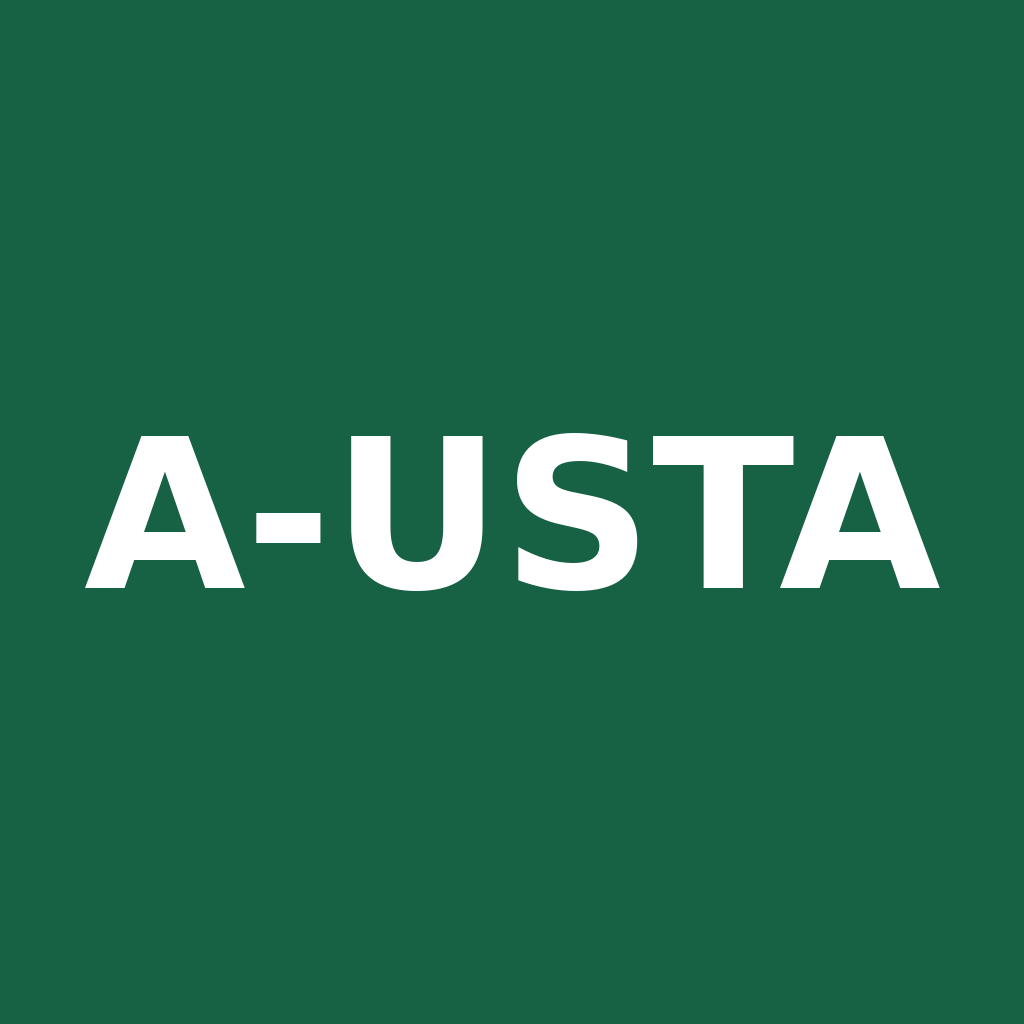
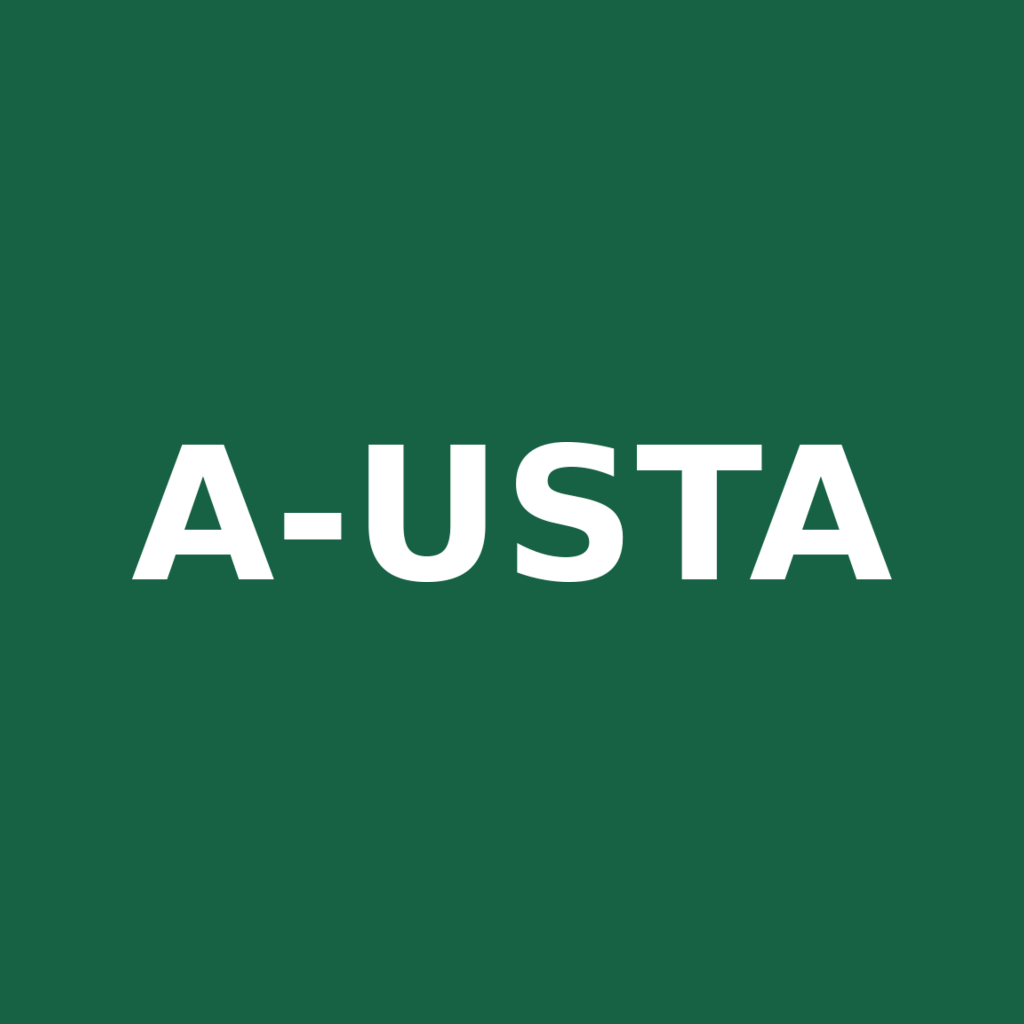
fix(mobile): harden cold start and responsive branding

diff --git a/mobile/src/components/MarketplaceScreens.tsx b/mobile/src/components/MarketplaceScreens.tsx
@@ -5,14 +5,13 @@ import { Feather } from '@expo/vector-icons';
 import * as ImagePicker from 'expo-image-picker';
 import AsyncStorage from '@react-native-async-storage/async-storage';
 import vehicleCatalog from '../data/vehicle-catalog.json';
-import { VideoView, useVideoPlayer } from 'expo-video';
 import { getSupabaseClient } from '../lib/supabase';
 import { attachMedia, CATEGORIES, CATEGORY_FILTERS, categoryConfig, categoryFilterError, categoryFilterValues, getFavorites, getListing, listCategory, listHome, promotionRank, sortListings, toggleFavorite, type Category, type CategoryKey, type Listing } from '../lib/marketplace';
 
 const newUuid=()=> 'xxxxxxxx-xxxx-4xxx-yxxx-xxxxxxxxxxxx'.replace(/[xy]/g,c=>{const r=Math.random()*16|0;return(c==='x'?r:(r&3|8)).toString(16);});
 const vehicleModels=vehicleCatalog.models as Record<string,string[]>;
 const GREEN='#176244', INK='#202A35', MUTED='#7A8491', LINE='#E8EBEF', BG='#F4F6F8';
-const styles=StyleSheet.create({screen:{flex:1,backgroundColor:BG},content:{paddingBottom:26},header:{backgroundColor:'#fff',padding:18,paddingBottom:14},brand:{fontSize:21,fontWeight:'900',letterSpacing:1,color:GREEN},search:{margin:14,marginBottom:0,height:48,borderRadius:12,backgroundColor:'#fff',borderWidth:1,borderColor:LINE,paddingHorizontal:13,flexDirection:'row',alignItems:'center',gap:9},input:{flex:1,color:INK,fontSize:14,paddingVertical:0},banner:{width:'100%',aspectRatio:1920/210,marginTop:14},section:{marginTop:20,marginBottom:10,paddingHorizontal:16,flexDirection:'row',alignItems:'center',justifyContent:'space-between'},heading:{fontSize:17,fontWeight:'800',color:INK},muted:{fontSize:12,color:MUTED},link:{color:GREEN,fontSize:12,fontWeight:'700'},strip:{gap:9,paddingHorizontal:14},cat:{width:82,alignItems:'center',gap:5},catIcon:{width:56,height:54,borderRadius:15,backgroundColor:'#fff',borderWidth:1,borderColor:LINE,alignItems:'center',justifyContent:'center'},catText:{fontSize:10,color:INK,textAlign:'center'},grid:{flexDirection:'row',flexWrap:'wrap',paddingHorizontal:10,gap:8},card:{width:'48.8%',backgroundColor:'#fff',borderRadius:13,overflow:'hidden',borderWidth:1,borderColor:LINE,paddingBottom:10},media:{height:138,backgroundColor:'#E9EDF0',alignItems:'center',justifyContent:'center'},mediaImage:{width:'100%',height:'100%'},badges:{position:'absolute',left:7,top:7,flexDirection:'row',gap:4},badge:{paddingHorizontal:7,paddingVertical:3,borderRadius:8,backgroundColor:'#EAF2ED',color:GREEN,fontSize:9,fontWeight:'800'},heart:{position:'absolute',right:7,top:7,width:30,height:30,borderRadius:16,backgroundColor:'rgba(255,255,255,.92)',alignItems:'center',justifyContent:'center'},price:{marginHorizontal:9,marginTop:8,fontSize:14,fontWeight:'900',color:INK},title:{marginHorizontal:9,marginTop:4,fontSize:12,fontWeight:'700',color:INK},meta:{marginHorizontal:9,marginTop:4,fontSize:10,color:MUTED},state:{margin:16,padding:20,borderRadius:15,backgroundColor:'#fff',alignItems:'center',borderColor:LINE,borderWidth:1},stateTitle:{marginTop:8,fontSize:14,fontWeight:'800',color:INK,textAlign:'center'},stateBody:{marginTop:5,fontSize:12,color:MUTED,textAlign:'center',lineHeight:18},button:{minHeight:44,paddingHorizontal:14,borderRadius:11,backgroundColor:GREEN,alignItems:'center',justifyContent:'center',flexDirection:'row',gap:8},buttonText:{color:'#fff',fontSize:13,fontWeight:'800'},outline:{minHeight:42,borderRadius:11,borderWidth:1,borderColor:LINE,backgroundColor:'#fff',paddingHorizontal:12,alignItems:'center',justifyContent:'center',flexDirection:'row',gap:7},outlineText:{color:INK,fontSize:12,fontWeight:'700'},filters:{margin:14,padding:13,backgroundColor:'#fff',borderRadius:13,borderColor:LINE,borderWidth:1,gap:8},field:{minHeight:43,paddingHorizontal:11,borderRadius:9,backgroundColor:'#F8F9FA',borderWidth:1,borderColor:LINE,color:INK,fontSize:13},row:{flexDirection:'row',gap:8},half:{flex:1},pills:{flexDirection:'row',gap:8,paddingHorizontal:14,paddingBottom:4},pill:{paddingVertical:8,paddingHorizontal:13,borderRadius:20,borderWidth:1,borderColor:LINE,backgroundColor:'#fff'},pillOn:{backgroundColor:GREEN,borderColor:GREEN},pillText:{fontSize:12,color:INK,fontWeight:'700'},pillTextOn:{color:'#fff'},detailHero:{height:320,backgroundColor:'#E9EDF0'},detailImage:{height:320,width:'100%'},detailPad:{padding:16,backgroundColor:'#fff',marginTop:7},detailPrice:{fontSize:25,fontWeight:'900',color:INK},detailTitle:{marginTop:5,fontSize:19,fontWeight:'800',color:INK},spec:{flexDirection:'row',justifyContent:'space-between',paddingVertical:11,borderBottomWidth:1,borderBottomColor:LINE},specKey:{fontSize:13,color:MUTED},specVal:{fontSize:13,color:INK,fontWeight:'700',maxWidth:'58%',textAlign:'right'},bottomBar:{position:'absolute',left:0,right:0,bottom:0,backgroundColor:'#fff',padding:12,borderTopWidth:1,borderTopColor:LINE,flexDirection:'row',gap:9},fab:{flex:1},form:{padding:16,gap:10},formLabel:{fontSize:13,fontWeight:'700',color:INK},mediaPick:{padding:14,backgroundColor:'#fff',borderWidth:1,borderStyle:'dashed',borderColor:'#AEB8C2',borderRadius:12,alignItems:'center',gap:7},preview:{width:84,height:80,borderRadius:9,backgroundColor:'#E9EDF0'},error:{color:'#B42318',fontSize:12},flatButton:{padding:10,alignItems:'center'} });
+const styles=StyleSheet.create({screen:{flex:1,backgroundColor:BG},content:{paddingBottom:26},header:{backgroundColor:'#fff',padding:18,paddingBottom:14},brand:{fontSize:21,fontWeight:'900',letterSpacing:1,color:GREEN,flexShrink:0},search:{margin:14,marginBottom:0,minHeight:48,paddingVertical:7,borderRadius:12,backgroundColor:'#fff',borderWidth:1,borderColor:LINE,paddingHorizontal:13,flexDirection:'row',alignItems:'center',gap:9},input:{flex:1,minWidth:0,flexShrink:1,color:INK,fontSize:14,paddingVertical:0},banner:{width:'100%',aspectRatio:1920/210,marginTop:14},section:{marginTop:20,marginBottom:10,paddingHorizontal:16,flexDirection:'row',alignItems:'center',justifyContent:'space-between',gap:8,flexWrap:'wrap'},heading:{fontSize:17,fontWeight:'800',color:INK,flexShrink:1},muted:{fontSize:12,color:MUTED,lineHeight:18,flexShrink:1},link:{color:GREEN,fontSize:12,fontWeight:'700'},strip:{gap:9,paddingHorizontal:14},cat:{width:82,alignItems:'center',gap:5,paddingVertical:2},catIcon:{width:56,height:54,borderRadius:15,backgroundColor:'#fff',borderWidth:1,borderColor:LINE,alignItems:'center',justifyContent:'center'},catText:{fontSize:10,color:INK,textAlign:'center',lineHeight:14,flexShrink:1},grid:{flexDirection:'row',flexWrap:'wrap',paddingHorizontal:10,gap:8},card:{flexBasis:'48%',flexGrow:1,flexShrink:1,minWidth:0,backgroundColor:'#fff',borderRadius:13,overflow:'hidden',borderWidth:1,borderColor:LINE,paddingBottom:10},media:{height:138,backgroundColor:'#E9EDF0',alignItems:'center',justifyContent:'center'},mediaImage:{width:'100%',height:'100%'},badges:{position:'absolute',left:7,top:7,flexDirection:'row',gap:4},badge:{paddingHorizontal:7,paddingVertical:3,borderRadius:8,backgroundColor:'#EAF2ED',color:GREEN,fontSize:9,fontWeight:'800'},heart:{position:'absolute',right:7,top:7,width:30,height:30,borderRadius:16,backgroundColor:'rgba(255,255,255,.92)',alignItems:'center',justifyContent:'center'},price:{marginHorizontal:9,marginTop:8,fontSize:14,fontWeight:'900',color:INK,flexShrink:1},title:{marginHorizontal:9,marginTop:4,fontSize:12,fontWeight:'700',color:INK,flexShrink:1},meta:{marginHorizontal:9,marginTop:4,fontSize:10,color:MUTED,lineHeight:15,flexShrink:1},state:{margin:16,padding:20,borderRadius:15,backgroundColor:'#fff',alignItems:'center',borderColor:LINE,borderWidth:1},stateTitle:{marginTop:8,fontSize:14,fontWeight:'800',color:INK,textAlign:'center'},stateBody:{marginTop:5,fontSize:12,color:MUTED,textAlign:'center',lineHeight:18},button:{minHeight:44,paddingHorizontal:14,borderRadius:11,backgroundColor:GREEN,alignItems:'center',justifyContent:'center',flexDirection:'row',flexWrap:'wrap',gap:8},buttonText:{color:'#fff',fontSize:13,fontWeight:'800',textAlign:'center',flexShrink:1},outline:{minHeight:42,borderRadius:11,borderWidth:1,borderColor:LINE,backgroundColor:'#fff',paddingHorizontal:12,alignItems:'center',justifyContent:'center',flexDirection:'row',flexWrap:'wrap',gap:7},outlineText:{color:INK,fontSize:12,fontWeight:'700'},filters:{margin:14,padding:13,backgroundColor:'#fff',borderRadius:13,borderColor:LINE,borderWidth:1,gap:8},field:{minHeight:43,paddingHorizontal:11,borderRadius:9,backgroundColor:'#F8F9FA',borderWidth:1,borderColor:LINE,color:INK,fontSize:13},row:{flexDirection:'row',flexWrap:'wrap',gap:8},half:{flex:1,minWidth:140},pills:{flexDirection:'row',gap:8,paddingHorizontal:14,paddingBottom:4},pill:{paddingVertical:8,paddingHorizontal:13,borderRadius:20,borderWidth:1,borderColor:LINE,backgroundColor:'#fff'},pillOn:{backgroundColor:GREEN,borderColor:GREEN},pillText:{fontSize:12,color:INK,fontWeight:'700'},pillTextOn:{color:'#fff'},detailHero:{height:320,backgroundColor:'#E9EDF0'},detailImage:{height:320,width:'100%'},detailPad:{padding:16,backgroundColor:'#fff',marginTop:7},detailPrice:{fontSize:25,fontWeight:'900',color:INK},detailTitle:{marginTop:5,fontSize:19,fontWeight:'800',color:INK},spec:{flexDirection:'row',justifyContent:'space-between',gap:12,paddingVertical:11,borderBottomWidth:1,borderBottomColor:LINE},specKey:{fontSize:13,color:MUTED},specVal:{fontSize:13,color:INK,fontWeight:'700',flexShrink:1,textAlign:'right'},bottomBar:{position:'absolute',left:0,right:0,bottom:0,backgroundColor:'#fff',padding:12,borderTopWidth:1,borderTopColor:LINE,flexDirection:'row',flexWrap:'wrap',gap:9},fab:{flex:1,minWidth:120},form:{padding:16,gap:10},formLabel:{fontSize:13,fontWeight:'700',color:INK},mediaPick:{padding:14,backgroundColor:'#fff',borderWidth:1,borderStyle:'dashed',borderColor:'#AEB8C2',borderRadius:12,alignItems:'center',justifyContent:'center',flexDirection:'row',flexWrap:'wrap',gap:7},preview:{width:84,height:80,borderRadius:9,backgroundColor:'#E9EDF0'},error:{color:'#B42318',fontSize:12},flatButton:{padding:10,alignItems:'center'} });
 
 const money=(n:any)=>n==null?'Qiymət soruşun':`${Number(n).toLocaleString('az-AZ')} AZN`;
 const priceOf=(item:Listing)=>item.daily_price ?? item.price;
@@ -22,7 +21,11 @@ const errorText=(e:unknown)=>e instanceof Error?e.message:'Əməliyyat tamamlanm
 
 function State({title,body,action,onAction,loading=false}:{title:string;body:string;action?:string;onAction?:()=>void;loading?:boolean}){return <View style={styles.state}>{loading?<ActivityIndicator color={GREEN}/>:<Feather name="info" size={24} color={GREEN}/>}<Text style={styles.stateTitle}>{title}</Text><Text style={styles.stateBody}>{body}</Text>{action&&<Pressable onPress={onAction} style={[styles.button,{marginTop:12}]}><Text style={styles.buttonText}>{action}</Text></Pressable>}</View>}
 function Section({title,action,onAction}:{title:string;action?:string;onAction?:()=>void}){return <View style={styles.section}><Text style={styles.heading}>{title}</Text>{action&&<Pressable onPress={onAction}><Text style={styles.link}>{action}</Text></Pressable>}</View>}
-function PromoVideo({url}:{url:string}){const player=useVideoPlayer(url,p=>{p.muted=true;p.loop=true;p.play();});return <VideoView player={player} style={styles.mediaImage} contentFit="cover" nativeControls />}
+function PromoVideo({url}:{url:string}){
+ // Video support is initialized only when a video listing is actually rendered.
+ // eslint-disable-next-line @typescript-eslint/no-require-imports
+ const {VideoView,useVideoPlayer}=require('expo-video') as typeof import('expo-video');const player=useVideoPlayer(url,p=>{p.muted=true;p.loop=true;p.play();});return <VideoView player={player} style={styles.mediaImage} contentFit="cover" nativeControls />
+}
 function CatalogPicker({title,value,options,onChange}:{title:string;value:string;options:string[];onChange:(value:string)=>void}){const [visible,setVisible]=useState(false),[search,setSearch]=useState('');const shown=options.filter(item=>item.toLocaleLowerCase('az-AZ').includes(search.trim().toLocaleLowerCase('az-AZ'))).slice(0,120);return <><Pressable accessibilityRole="button" onPress={()=>{setSearch('');setVisible(true);}} style={[styles.field,{justifyContent:'center',marginTop:5}]}><Text style={{color:value?INK:'#98A1AB'}}>{value||title}</Text></Pressable><Modal visible={visible} animationType="slide" onRequestClose={()=>setVisible(false)}><View style={{flex:1,backgroundColor:BG,paddingTop:40}}><View style={styles.header}><Text style={styles.heading}>{title}</Text><Pressable onPress={()=>setVisible(false)}><Text style={styles.link}>Bağla</Text></Pressable></View><View style={styles.search}><Feather name="search" size={17} color={MUTED}/><TextInput value={search} onChangeText={setSearch} placeholder={`${title} axtar`} style={styles.input}/></View><ScrollView keyboardShouldPersistTaps="handled" contentContainerStyle={{padding:16}}>{shown.map(option=><Pressable key={option} onPress={()=>{onChange(option);setVisible(false);}} style={[styles.spec,{paddingVertical:14}]}><Text style={styles.specVal}>{option}</Text><Feather name="chevron-right" size={17} color={MUTED}/></Pressable>)}{shown.length===0&&<Text style={styles.stateBody}>Uyğun seçim tapılmadı.</Text>}</ScrollView></View></Modal></>}
 
 function ListingCard({item,onOpen,onFavorite}:{item:Listing;onOpen:()=>void;onFavorite:(item:Listing)=>void}){
@@ -33,9 +36,9 @@ function ListingCard({item,onOpen,onFavorite}:{item:Listing;onOpen:()=>void;onFa
     <View style={styles.badges}>{promotionRank(item)>=3&&<Text style={styles.badge}>PREMIUM</Text>}{promotionRank(item)===2&&<Text style={styles.badge}>VIP</Text>}{item._category==='dealer'&&item.details?.order_type==='order'&&<Text style={styles.badge}>SİFARİŞLƏ</Text>}</View>
     <Pressable accessibilityRole="button" accessibilityLabel="Seçilmişlərə əlavə et" onPress={()=>onFavorite(item)} style={styles.heart}><Feather name="heart" size={16} color={GREEN}/></Pressable>
    </View>
-   <Text numberOfLines={1} style={styles.price}>{money(priceOf(item))}</Text><Text numberOfLines={1} style={styles.title}>{titleOf(item)}</Text>
-   <Text numberOfLines={1} style={styles.meta}>{[item.year,item.engine_volume?`${item.engine_volume} L`:null,item.mileage?`${Number(item.mileage).toLocaleString('az-AZ')} km`:null].filter(Boolean).join(' · ')||item.specialty||item.details?.service_category||item.condition||''}</Text>
-   <Text numberOfLines={1} style={styles.meta}>{locationOf(item)} · {(item.published_at||item.created_at?new Date(item.published_at||item.created_at).toLocaleDateString('az-AZ'):'')}</Text>
+   <Text style={styles.price}>{money(priceOf(item))}</Text><Text style={styles.title}>{titleOf(item)}</Text>
+   <Text style={styles.meta}>{[item.year,item.engine_volume?`${item.engine_volume} L`:null,item.mileage?`${Number(item.mileage).toLocaleString('az-AZ')} km`:null].filter(Boolean).join(' · ')||item.specialty||item.details?.service_category||item.condition||''}</Text>
+   <Text style={styles.meta}>{locationOf(item)} · {(item.published_at||item.created_at?new Date(item.published_at||item.created_at).toLocaleDateString('az-AZ'):'')}</Text>
  </Pressable>
 }
 
@@ -51,7 +54,7 @@ export function MarketplaceHomeScreen(){
   <View style={styles.header}><Text style={styles.brand}>A-USTA</Text><Text style={styles.muted}>Avtomobil elanları və xidmətlər</Text></View>
   <Image source={require('../../assets/austa-top-static-banner.webp')} style={styles.banner} resizeMode="stretch" accessibilityLabel="A-USTA reklamı"/>
   <Section title="Kateqoriyalar" action="Elan yerləşdir" onAction={()=>router.push('/(drawer)/(tabs)/create')}/>
-  <ScrollView horizontal showsHorizontalScrollIndicator={false} contentContainerStyle={styles.strip}>{CATEGORIES.map(c=><Pressable key={c.key} accessibilityRole="button" accessibilityState={{selected:homeCategory===c.key}} onPress={()=>{setHomeCategory(c.key);setSearch('');setDraftFilters({});setAppliedFilters({});setLoading(true);}} style={[styles.cat,homeCategory===c.key&&{borderBottomWidth:2,borderBottomColor:GREEN}]}><View style={[styles.catIcon,homeCategory===c.key&&{backgroundColor:'#EAF2ED',borderColor:GREEN}]}><Feather name={c.icon as any} color={GREEN} size={20}/></View><Text style={[styles.catText,homeCategory===c.key&&{color:GREEN,fontWeight:'800'}]} numberOfLines={2}>{c.title}</Text></Pressable>)}</ScrollView>
+  <ScrollView horizontal showsHorizontalScrollIndicator={false} contentContainerStyle={styles.strip}>{CATEGORIES.map(c=><Pressable key={c.key} accessibilityRole="button" accessibilityState={{selected:homeCategory===c.key}} onPress={()=>{setHomeCategory(c.key);setSearch('');setDraftFilters({});setAppliedFilters({});setLoading(true);}} style={[styles.cat,homeCategory===c.key&&{borderBottomWidth:2,borderBottomColor:GREEN}]}><View style={[styles.catIcon,homeCategory===c.key&&{backgroundColor:'#EAF2ED',borderColor:GREEN}]}><Feather name={c.icon as any} color={GREEN} size={20}/></View><Text style={[styles.catText,homeCategory===c.key&&{color:GREEN,fontWeight:'800'}]}>{c.title}</Text></Pressable>)}</ScrollView>
   <View style={styles.filters}>
    <View style={[styles.search,{margin:0}]}><Feather name="search" color={MUTED} size={17}/><TextInput value={search} onChangeText={setSearch} placeholder={`${activeCategory.title} üzrə axtar`} placeholderTextColor="#98A1AB" style={styles.input} returnKeyType="search"/></View>
    <Text style={styles.formLabel}>{activeCategory.title} filtrləri</Text>
@@ -157,7 +160,7 @@ export function MarketplaceCreateScreen(){
  return <ScrollView style={styles.screen} contentContainerStyle={styles.form}>{!draftId&&drafts.length>0&&<View style={{gap:8}}><Text style={styles.heading}>Qaralamalarım</Text>{drafts.map(row=><Pressable key={`${row._draftSource}:${row.id}`} onPress={()=>editDraft(row)} style={styles.detailPad}><Text style={styles.formLabel}>{row.brand||row.dealer_name||row.title||row.name||row.category||'Yeni elan'} · {row.status==='draft'?'Qaralama':'Gözləyir'}</Text><Text style={styles.meta}>{row.id.slice(0,8)}</Text></Pressable>)}</View>}<Text style={styles.brand}>{draftId?'Elanı redaktə et':'Yeni elan'}</Text><Text style={styles.muted}>Kateqoriya seçin</Text><ScrollView horizontal showsHorizontalScrollIndicator={false} contentContainerStyle={styles.pills}>{CATEGORIES.map(c=><Pressable key={c.key} onPress={()=>{setKey(c.key);setDraftId('');setDraftStatus('');setValues({});setAssets([]);setSellerProfileId('');setFormStep(0);setCleanupPending(false);}} style={[styles.pill,key===c.key&&styles.pillOn]}><Text style={[styles.pillText,key===c.key&&styles.pillTextOn]}>{c.title}</Text></Pressable>)}</ScrollView>
  {formStep===0&&<View style={styles.detailPad}><Text style={styles.formLabel}>Satıcı profili</Text><Pressable onPress={()=>setSellerProfileId('')} style={[styles.pill,!sellerProfileId&&styles.pillOn,{alignSelf:'flex-start',marginTop:8}]}><Text style={[styles.pillText,!sellerProfileId&&styles.pillTextOn]}>Şəxsi elan</Text></Pressable>{eligibleSellerProfiles.map(profile=><Pressable key={profile.id} onPress={()=>setSellerProfileId(profile.id)} style={[styles.pill,sellerProfileId===profile.id&&styles.pillOn,{alignSelf:'flex-start',marginTop:8}]}><Text style={[styles.pillText,sellerProfileId===profile.id&&styles.pillTextOn]}>{profile.display_name} · Təsdiqlənmiş</Text></Pressable>)}{eligibleSellerProfiles.length===0&&<Text style={styles.muted}>Bu kateqoriya üçün təsdiqlənmiş profil tapılmadı. Şəxsi elan seçimi mövcuddur; server yekun uyğunluğu özü yoxlayır.</Text>}</View>}
  {formStep===0&&fields.map(([field,label])=><View key={field}><Text style={styles.formLabel}>{label}</Text>{category.source==='vehicle'&&field==='brand'?<CatalogPicker title="Marka seçin" value={values.brand||''} options={vehicleCatalog.brands} onChange={v=>{set('brand',v);set('model','');}}/>:category.source==='vehicle'&&field==='model'&&values.brand?<CatalogPicker title="Model seçin" value={values.model||''} options={vehicleModels[values.brand]||[]} onChange={v=>set('model',v)}/>:<TextInput value={values[field]||''} onChangeText={v=>set(field,v)} placeholder={label} placeholderTextColor="#98A1AB" multiline={['description','address'].includes(field)} keyboardType={field==='price'||field==='year'||field==='mileage'||field==='engine_volume'?'decimal-pad':'default'} style={[styles.field,{marginTop:5,minHeight:['description','address'].includes(field)?76:43,textAlignVertical:'top',paddingTop:12}]}/>}</View>)}
-  {formStep===1&&<View style={{gap:10}}><Text style={styles.heading}>Şəkillər və video</Text><Text style={styles.muted}>Bir neçə real şəkil seçin. Fayllar yükləmə gedişi və təkrar cəhdlə qorunur; dövlət nömrəsi kateqoriyasında video qəbul edilmir.</Text><Pressable onPress={()=>void pick()} style={styles.mediaPick}><Feather name="image" size={22} color={GREEN}/><Text style={styles.formLabel}>{assets.length?`${assets.length} media seçilib`:'Mobil qalereyadan media seçin'}</Text></Pressable>{assets.map((asset,n)=><View key={asset.assetId||asset.uri} style={[styles.detailPad,{flexDirection:'row',alignItems:'center',gap:10}]}>{asset.type==='video'?<PromoVideo url={asset.uri}/>:<Image source={{uri:asset.uri}} style={{width:64,height:56,borderRadius:8}}/>}<Text numberOfLines={1} style={[styles.meta,{flex:1}]}>{asset.fileName||`Media ${n+1}`}</Text><Pressable onPress={()=>setAssets(list=>list.filter((_,i)=>i!==n))}><Text style={styles.link}>Sil</Text></Pressable></View>)}</View>}
+  {formStep===1&&<View style={{gap:10}}><Text style={styles.heading}>Şəkillər və video</Text><Text style={styles.muted}>Bir neçə real şəkil seçin. Fayllar yükləmə gedişi və təkrar cəhdlə qorunur; dövlət nömrəsi kateqoriyasında video qəbul edilmir.</Text><Pressable onPress={()=>void pick()} style={styles.mediaPick}><Feather name="image" size={22} color={GREEN}/><Text style={styles.formLabel}>{assets.length?`${assets.length} media seçilib`:'Mobil qalereyadan media seçin'}</Text></Pressable>{assets.map((asset,n)=><View key={asset.assetId||asset.uri} style={[styles.detailPad,{flexDirection:'row',alignItems:'center',gap:10,flexWrap:'wrap'}]}>{asset.type==='video'?<PromoVideo url={asset.uri}/>:<Image source={{uri:asset.uri}} style={{width:64,height:56,borderRadius:8}}/>}<Text style={[styles.meta,{flex:1,minWidth:100}]}>{asset.fileName||`Media ${n+1}`}</Text><Pressable onPress={()=>setAssets(list=>list.filter((_,i)=>i!==n))}><Text style={styles.link}>Sil</Text></Pressable></View>)}</View>}
   {formStep===2&&<View style={{gap:10}}><Text style={styles.heading}>Elan önizləməsi</Text><View style={styles.detailPad}>{assets[0]&&<>{assets[0].type==='video'?<PromoVideo url={assets[0].uri}/>:<Image source={{uri:assets[0].uri}} style={{width:'100%',height:190,borderRadius:12}}/>}</>}<Text style={styles.badge}>{category.title}</Text><Text style={styles.detailPrice}>{money(values.price||values.daily_price)}</Text><Text style={styles.detailTitle}>{values.title||[values.brand,values.model,values.year].filter(Boolean).join(' ')||category.title}</Text><Text style={styles.meta}>{[values.year,values.engine_volume?`${values.engine_volume} L`:null,values.mileage?`${values.mileage} km`:null,values.region,values.district].filter(Boolean).join(' · ')}</Text><Text style={styles.meta}>{values.description||values.about||'Təsvir əlavə edilməyib.'}</Text></View><Text style={styles.muted}>Dərc etməzdən əvvəl məlumatları yoxlayın. Server tərəfi RLS, sahiblik və kateqoriya qaydaları qüvvədə qalır.</Text></View>}
   {!!error&&<Text accessibilityRole="alert" style={styles.error}>{error}</Text>}{!!progress&&<Text style={styles.muted}>{progress}</Text>}
   {cleanupPending&&<Text accessibilityRole="alert" style={styles.error}>Media təmizlənməsi təsdiqlənmədi. Təkrar yükləməni dayandırdıq; əvvəlcə bu qaralamanı dəstək vasitəsilə yoxlatdırın.</Text>}<View style={styles.row}>{formStep>0&&<Pressable disabled={saving} onPress={()=>setFormStep(v=>Math.max(0,v-1))} style={[styles.outline,{flex:1}]}><Text style={styles.outlineText}>Geri</Text></Pressable>}<Pressable disabled={saving||cleanupPending} onPress={()=>void save(false)} style={[styles.outline,{flex:1}]}><Text style={styles.outlineText}>{saving?'Saxlanılır…':draftStatus==='active'?'Dəyişiklikləri saxla':'Qaralama saxla'}</Text></Pressable></View>{formStep<2?<Pressable disabled={saving||cleanupPending} onPress={advanceStep} style={styles.button}><Text style={styles.buttonText}>Davam et · {['Məlumatlar','Media','Önizləmə'][formStep+1]}</Text></Pressable>:<Pressable disabled={saving||cleanupPending} onPress={()=>void save(true)} style={styles.button}><Text style={styles.buttonText}>{saving?'Gözləyin…':draftStatus==='active'?'Elanı yenilə':'Dərc et'}</Text></Pressable>}

diff --git a/mobile/App.tsx b/mobile/App.tsx
@@ -56,7 +56,7 @@ export function ServiceDrawer({ navigation }: { navigation: { closeDrawer: () =>
       <Feather name={open ? 'chevron-up' : 'chevron-down'} size={19} color={MUTED} />
     </Pressable>
     {open && <View style={styles.serviceList}>{serviceItems.map(item => <Pressable key={item.key} accessibilityRole="button" onPress={() => go(item.key, item.title)} style={({ pressed }) => [styles.serviceLink, pressed && styles.pressed]}>
-      <View style={styles.serviceIcon}><Feather name={item.icon} size={18} color={GREEN} /></View><View style={styles.serviceCopy}><Text style={styles.serviceTitle}>{item.title}</Text><Text numberOfLines={1} style={styles.serviceNote}>{item.note}</Text></View><Feather name="chevron-right" size={17} color="#A1A8B1" />
+      <View style={styles.serviceIcon}><Feather name={item.icon} size={18} color={GREEN} /></View><View style={styles.serviceCopy}><Text style={styles.serviceTitle}>{item.title}</Text><Text style={styles.serviceNote}>{item.note}</Text></View><Feather name="chevron-right" size={17} color="#A1A8B1" />
     </Pressable>)}</View>}
     <View style={styles.drawerDivider} />
     <Pressable accessibilityRole="button" onPress={() => { navigation.closeDrawer(); setOpen(false); }} style={styles.drawerNav}><Feather name="home" size={19} color={INK} /><Text style={styles.drawerNavText}>Əsas səhifə</Text></Pressable>
@@ -92,7 +92,7 @@ export function HomeScreen() {
     <View style={styles.searchBox}><Feather name="search" size={19} color={MUTED} /><TextInput accessibilityLabel="Axtarış" placeholder="Marka, model və ya elan axtar" placeholderTextColor="#98A1AB" value={query} onChangeText={setQuery} style={styles.searchInput} returnKeyType="search" /><Pressable accessibilityLabel="Filtrlər" onPress={() => Alert.alert('Filtrlər', 'Axtarış filtrləri M3 mərhələsində qoşulacaq.')}><Feather name="sliders" size={20} color={GREEN} /></Pressable></View>
     <View style={styles.brandBanner}><Image source={require('./assets/austa-top-static-banner.webp')} style={styles.bannerImage} resizeMode="contain" accessibilityLabel="A-USTA reklamı" /></View>
     <View style={styles.sectionHeading}><Text style={styles.sectionTitle}>Kateqoriyalar</Text><Text style={styles.sectionHint}>Hamısına bax</Text></View>
-    <ScrollView horizontal showsHorizontalScrollIndicator={false} contentContainerStyle={styles.categoryStrip}>{categories.slice(0, 6).map(([key, title, icon]) => <Pressable key={key} onPress={() => openCategory(key, title)} style={styles.categoryTile}><View style={styles.categoryIcon}><Feather name={icon as keyof typeof Feather.glyphMap} size={20} color={GREEN} /></View><Text numberOfLines={2} style={styles.categoryLabel}>{title}</Text></Pressable>)}</ScrollView>
+    <ScrollView horizontal showsHorizontalScrollIndicator={false} contentContainerStyle={styles.categoryStrip}>{categories.slice(0, 6).map(([key, title, icon]) => <Pressable key={key} onPress={() => openCategory(key, title)} style={styles.categoryTile}><View style={styles.categoryIcon}><Feather name={icon as keyof typeof Feather.glyphMap} size={20} color={GREEN} /></View><Text style={styles.categoryLabel}>{title}</Text></Pressable>)}</ScrollView>
     <View style={styles.sectionHeading}><Text style={styles.sectionTitle}>Son avtomobil elanları</Text><Pressable onPress={() => openCategory('cars', 'Avtomobillər')}><Text style={styles.moreText}>Hamısına bax</Text></Pressable></View>
     {loading ? <StateCard icon="loader" title="Elanlar yüklənir" body="A-USTA elanları yoxlanılır…" /> : error ? <StateCard icon="wifi-off" title="Elanlar hazırda əlçatan deyil" body={error} action="Yenidən yoxla" onAction={() => { setLoading(true); void load(); }} /> : listings.length === 0 ? <StateCard icon="search" title="Aktiv elan tapılmadı" body="Yeni elanlar dərc edildikdə burada görünəcək." /> : <View style={styles.listingGrid}>{listings.filter(item => !query || `${item.brand} ${item.model}`.toLowerCase().includes(query.toLowerCase())).slice(0, 8).map(item => <ListingCard key={item.id} item={item} onPress={() => router.push({ pathname: '/listing/[id]', params: { id: item.id } })} />)}</View>}
     <View style={styles.sectionHeading}><Text style={styles.sectionTitle}>Bütün elan kateqoriyaları</Text></View>
@@ -103,10 +103,10 @@ export function HomeScreen() {
 function ListingCard({ item, onPress }: { item: Listing; onPress: () => void }) {
   return <Pressable accessibilityRole="button" onPress={onPress} style={({ pressed }) => [styles.listingCard, pressed && styles.pressed]}>
     <View style={styles.listingImage}><Feather name="truck" size={30} color="#A6AFB9" /><Text style={styles.noMedia}>Şəkil mövcud deyil</Text></View>
-    <Text numberOfLines={1} style={styles.listingPrice}>{item.price == null ? 'Qiymət soruşun' : `${Number(item.price).toLocaleString('az-AZ')} AZN`}</Text>
-    <Text numberOfLines={1} style={styles.listingTitle}>{item.brand} {item.model}</Text>
-    <Text numberOfLines={1} style={styles.listingMeta}>{[item.year, item.engine_volume ? `${item.engine_volume} L` : '', item.mileage ? `${Number(item.mileage).toLocaleString('az-AZ')} km` : ''].filter(Boolean).join(' · ')}</Text>
-    <Text numberOfLines={1} style={styles.listingLocation}>{item.region || 'Azərbaycan'}</Text>
+    <Text style={styles.listingPrice}>{item.price == null ? 'Qiymət soruşun' : `${Number(item.price).toLocaleString('az-AZ')} AZN`}</Text>
+    <Text style={styles.listingTitle}>{item.brand} {item.model}</Text>
+    <Text style={styles.listingMeta}>{[item.year, item.engine_volume ? `${item.engine_volume} L` : '', item.mileage ? `${Number(item.mileage).toLocaleString('az-AZ')} km` : ''].filter(Boolean).join(' · ')}</Text>
+    <Text style={styles.listingLocation}>{item.region || 'Azərbaycan'}</Text>
   </Pressable>;
 }
 
@@ -136,7 +136,7 @@ function StateCard({ icon, title, body, action, onAction }: { icon: keyof typeof
 
 const styles = StyleSheet.create({
   screen: { flex: 1, backgroundColor: '#F4F6F8' }, homeContent: { paddingBottom: 28 },
-  wordmark: { color: GREEN, fontSize: 22, fontWeight: '900', letterSpacing: 1.1 }, wordmarkSmall: { fontSize: 19 },
+  wordmark: { color: GREEN, fontSize: 22, fontWeight: '900', letterSpacing: 1.1, flexShrink: 0 }, wordmarkSmall: { fontSize: 19 },
   homeHeader: { backgroundColor: '#FFFFFF', flexDirection: 'row', alignItems: 'center', paddingHorizontal: 18, paddingTop: 12, paddingBottom: 14, gap: 16 }, menuButton: { width: 38, height: 38, alignItems: 'center', justifyContent: 'center' }, notification: { marginLeft: 'auto', width: 38, height: 38, alignItems: 'center', justifyContent: 'center' },
   searchBox: { marginHorizontal: 16, marginTop: 14, height: 50, borderRadius: 13, backgroundColor: '#FFFFFF', borderWidth: 1, borderColor: LINE, flexDirection: 'row', alignItems: 'center', paddingHorizontal: 14, gap: 10 }, searchInput: { flex: 1, paddingVertical: 0, color: INK, fontSize: 14 },
   brandBanner: { width: '100%', aspectRatio: 1920 / 210, overflow: 'hidden', backgroundColor: '#16120F' }, bannerImage: { width: '100%', height: '100%' },

diff --git a/mobile/src/components/ServiceDrawer.tsx b/mobile/src/components/ServiceDrawer.tsx
@@ -1,0 +1,74 @@
+import { useState } from 'react';
+import { Alert, Linking, Pressable, ScrollView, StyleSheet, Text, View } from 'react-native';
+import { Feather } from '@expo/vector-icons';
+import { useRouter } from 'expo-router';
+import { useSafeAreaInsets } from 'react-native-safe-area-context';
+
+const GREEN = '#176244';
+const INK = '#202A35';
+const MUTED = '#7A8491';
+const LINE = '#E8EBEF';
+const CARCARE_URL = 'https://www.carcarekiosk.com/';
+
+const serviceItems = [
+  { title: 'Usta çağır', key: 'mechanic_service', icon: 'tool', note: 'Mobil usta və servis sifarişi' },
+  { title: 'Evakuator', key: 'tow_service', icon: 'truck', note: 'Yol yardımına sifariş' },
+  { title: 'Yükdaşıma', key: 'cargo_service', icon: 'package', note: 'Avtomobil və yük daşınması' },
+  { title: 'Yaxın məntəqələr', key: 'locations', icon: 'map-pin', note: 'Xəritədə xidmət nöqtələri' },
+  { title: 'CarCareKiosk', key: 'carcare', icon: 'external-link', note: 'Təmir videoları və təlimatlar' },
+] as const;
+
+type Props = { navigation: { closeDrawer: () => void } };
+
+export function ServiceDrawer({ navigation }: Props) {
+  const [open, setOpen] = useState(false);
+  const safe = useSafeAreaInsets();
+  const router = useRouter();
+
+  const go = (key: string, title: string) => {
+    navigation.closeDrawer();
+    setTimeout(() => {
+      if (key === 'locations') router.push('/locations');
+      else if (key === 'carcare') void Linking.openURL(CARCARE_URL).catch(() => Alert.alert('Keçid açılmadı', 'CarCareKiosk səhifəsi hazırda açıla bilmir.'));
+      else router.push({ pathname: '/service/[key]', params: { key, title } });
+    }, 180);
+  };
+
+  return <ScrollView contentContainerStyle={[styles.content, { paddingTop: Math.max(safe.top, 18) }]}>
+    <View style={styles.brand}><Text accessibilityRole="header" style={styles.wordmark}>A-USTA</Text><Text style={styles.caption}>Avtomobil dünyası bir yerdə</Text></View>
+    <View style={styles.divider} />
+    <Pressable accessibilityRole="button" accessibilityState={{ expanded: open }} onPress={() => setOpen(value => !value)} style={styles.accordion}>
+      <View style={styles.leading}><Feather name="grid" size={19} color={GREEN} /><Text style={styles.accordionText}>A-USTA xidmətləri</Text></View>
+      <Feather name={open ? 'chevron-up' : 'chevron-down'} size={19} color={MUTED} />
+    </Pressable>
+    {open && <View style={styles.serviceList}>{serviceItems.map(item => <Pressable key={item.key} accessibilityRole="button" onPress={() => go(item.key, item.title)} style={styles.serviceLink}>
+      <View style={styles.serviceIcon}><Feather name={item.icon} size={18} color={GREEN} /></View>
+      <View style={styles.serviceCopy}><Text style={styles.serviceTitle}>{item.title}</Text><Text style={styles.serviceNote}>{item.note}</Text></View>
+      <Feather name="chevron-right" size={17} color="#A1A8B1" />
+    </Pressable>)}</View>}
+    <View style={styles.divider} />
+    <Pressable accessibilityRole="button" onPress={() => { navigation.closeDrawer(); setOpen(false); }} style={styles.nav}><Feather name="home" size={19} color={INK} /><Text style={styles.navText}>Əsas səhifə</Text></Pressable>
+    <Pressable accessibilityRole="button" onPress={() => { navigation.closeDrawer(); setOpen(false); setTimeout(() => router.navigate('/(drawer)/(tabs)/account'), 100); }} style={styles.nav}><Feather name="user" size={19} color={INK} /><Text style={styles.navText}>Şəxsi kabinet</Text></Pressable>
+    <Text style={styles.footer}>A-USTA · Mobil tətbiq</Text>
+  </ScrollView>;
+}
+
+const styles = StyleSheet.create({
+  content: { flexGrow: 1, paddingHorizontal: 16, paddingBottom: 22 },
+  brand: { paddingVertical: 19, paddingHorizontal: 8 },
+  wordmark: { color: GREEN, fontSize: 22, fontWeight: '900', letterSpacing: 1.1, flexShrink: 0 },
+  caption: { color: MUTED, fontSize: 12, marginTop: 5 },
+  divider: { height: 1, backgroundColor: LINE, marginVertical: 8 },
+  accordion: { minHeight: 50, flexDirection: 'row', alignItems: 'center', justifyContent: 'space-between', paddingHorizontal: 9, borderRadius: 10 },
+  leading: { flex: 1, flexDirection: 'row', alignItems: 'center', gap: 11 },
+  accordionText: { flexShrink: 1, color: INK, fontWeight: '800', fontSize: 14 },
+  serviceList: { paddingLeft: 5, paddingVertical: 3 },
+  serviceLink: { minHeight: 57, flexDirection: 'row', alignItems: 'center', gap: 10, paddingHorizontal: 5, paddingVertical: 6, borderRadius: 9 },
+  serviceIcon: { width: 36, height: 36, borderRadius: 11, backgroundColor: '#EAF2ED', alignItems: 'center', justifyContent: 'center' },
+  serviceCopy: { flex: 1, minWidth: 0 },
+  serviceTitle: { flexShrink: 1, fontSize: 13, fontWeight: '700', color: INK },
+  serviceNote: { flexShrink: 1, fontSize: 10, color: MUTED, marginTop: 2 },
+  nav: { minHeight: 48, flexDirection: 'row', alignItems: 'center', gap: 12, paddingHorizontal: 9, paddingVertical: 6 },
+  navText: { flexShrink: 1, fontSize: 13, fontWeight: '600', color: INK },
+  footer: { color: MUTED, fontSize: 10, marginTop: 'auto', paddingHorizontal: 9, paddingTop: 30 },
+});

diff --git a/mobile/src/components/ServiceScreens.tsx b/mobile/src/components/ServiceScreens.tsx
@@ -4,7 +4,7 @@ import { useLocalSearchParams } from 'expo-router';
 import { Feather } from '@expo/vector-icons';
 import * as ImagePicker from 'expo-image-picker';
 import * as Location from 'expo-location';
-import MapView, { Marker, Region } from 'react-native-maps';
+import type { Region } from 'react-native-maps';
 import { getSupabaseClient } from '../lib/supabase';
 import { createServiceOrder, customerPriceAction, dispatchServiceOrder, loadCustomerOrders, loadProviderAssignments, newClientOrderId, ORDER_STATUSES, providerAction, providerPriceOffer, reconcileOrder, ServiceApiError, type OrderAnswer, type ServiceOrder, uploadProviderEvidence } from '../lib/service-orders';
 
@@ -75,6 +75,9 @@ function PriceOffer({client,assignment,onSaved}:{client:NonNullable<ReturnType<t
 type PublicProvider={listing_id:string;provider_type:string;public_name:string;public_area:string;public_address:string|null;public_phone:string|null;latitude:number|null;longitude:number|null;location_kind:'business'|'service_area';services:string[]};
 const mapFilters:[string,string][]=[['all','Hamısı'],['usta','Ustalar'],['service','Servislər'],['repair','Təmir'],['wash','Avtoyuma'],['tyre','Təkər'],['alignment','Razval']];
 export function ServiceLocationsScreen(){
+ // The map native module is deferred until this route mounts; cold-start does not initialize Google Maps.
+ // eslint-disable-next-line @typescript-eslint/no-require-imports
+ const {default:MapView,Marker}=require('react-native-maps') as typeof import('react-native-maps');
  const client=useMemo(()=>getSupabaseClient(),[]);const [position,setPosition]=useState({latitude:40.4093,longitude:49.8671}),[area,setArea]=useState('Bakı'),[city,setCity]=useState('Bakı'),[query,setQuery]=useState(''),[filter,setFilter]=useState('all'),[rows,setRows]=useState<PublicProvider[]>([]),[selected,setSelected]=useState<PublicProvider|null>(null),[loading,setLoading]=useState(false),[error,setError]=useState(''),[permission,setPermission]=useState<'unknown'|'granted'|'denied'>('unknown'),[region,setRegion]=useState<Region>({latitude:40.4093,longitude:49.8671,latitudeDelta:.22,longitudeDelta:.22}),[offset,setOffset]=useState(0),[hasMore,setHasMore]=useState(false);
  const discover=useCallback(async(next=0,category=filter)=>{if(!client){setError('Supabase anon konfiqurasiyası tapılmadı.');return;}setLoading(true);setError('');try{const h=Math.min(region.latitudeDelta,.48)/2,w=Math.min(region.longitudeDelta,.48)/2;const {data,error:e}=await client.rpc('discover_public_providers',{south:region.latitude-h,west:region.longitude-w,north:region.latitude+h,east:region.longitude+w,query:clean(query).slice(0,120),area:clean(area).slice(0,100),countrywide:false,result_offset:next,category});if(e)throw e;const list=(Array.isArray(data)?data:[]) as PublicProvider[];setRows(current=>next?[...current,...list]:list);setOffset(next);setHasMore(list.length===40&&next<80);setSelected(null);}catch(e){setError(errorText(e));}finally{setLoading(false);}},[client,region,area,query,filter]);
  // Fetch once on mount and whenever the explicit category filter changes; map pans/search text are sent only after the user presses Search.

diff --git a/mobile/src/app/_layout.tsx b/mobile/src/app/_layout.tsx
@@ -2,6 +2,17 @@ import 'react-native-gesture-handler';
 import { Stack } from 'expo-router';
 import { StatusBar } from 'expo-status-bar';
 import { SafeAreaProvider } from 'react-native-safe-area-context';
+import { Pressable, Text, View } from 'react-native';
+
+export function ErrorBoundary({ retry }: { error: Error; retry: () => void }) {
+  return <View style={{ flex: 1, justifyContent: 'center', alignItems: 'center', padding: 24, backgroundColor: '#F4F6F8' }}>
+    <Text accessibilityRole="header" style={{ color: '#202A35', fontSize: 18, fontWeight: '800', textAlign: 'center' }}>A-USTA açıla bilmədi</Text>
+    <Text style={{ color: '#66717D', fontSize: 14, lineHeight: 21, textAlign: 'center', marginTop: 8 }}>Bağlantını yoxlayın və tətbiqi yenidən başladın.</Text>
+    <Pressable accessibilityRole="button" onPress={retry} style={{ minHeight: 48, paddingHorizontal: 20, borderRadius: 10, backgroundColor: '#176244', justifyContent: 'center', marginTop: 18 }}>
+      <Text style={{ color: '#FFFFFF', fontSize: 14, fontWeight: '700' }}>Yenidən cəhd et</Text>
+    </Pressable>
+  </View>;
+}
 
 export default function RootLayout() {
   return <SafeAreaProvider>

diff --git a/mobile/src/app/(drawer)/(tabs)/_layout.tsx b/mobile/src/app/(drawer)/(tabs)/_layout.tsx
@@ -12,8 +12,8 @@ export default function TabLayout() {
     headerShown: false,
     tabBarActiveTintColor: GREEN,
     tabBarInactiveTintColor: MUTED,
-    tabBarLabelStyle: { fontSize: 10, fontWeight: '600', marginBottom: 2 },
-    tabBarStyle: { height: 57 + insets.bottom, paddingTop: 5, paddingBottom: Math.max(insets.bottom, 5), borderTopColor: '#E8EBEF', backgroundColor: '#FFFFFF' },
+    tabBarLabelStyle: { fontSize: 9, fontWeight: '600', marginBottom: 2, flexShrink: 1, textAlign: 'center' },
+    tabBarStyle: { minHeight: 61 + insets.bottom, paddingTop: 5, paddingBottom: Math.max(insets.bottom, 5), borderTopColor: '#E8EBEF', backgroundColor: '#FFFFFF' },
   }}>
     <Tabs.Screen name="index" options={{ title: 'Əsas', tabBarIcon: ({ color, size }) => <Feather name="home" color={String(color)} size={size} /> }} />
     <Tabs.Screen name="favorites" options={{ title: 'Seçilmişlər', tabBarIcon: ({ color, size }) => <Feather name="heart" color={String(color)} size={size} /> }} />

diff --git a/mobile/src/app/(drawer)/_layout.tsx b/mobile/src/app/(drawer)/_layout.tsx
@@ -1,5 +1,5 @@
 import { Drawer } from 'expo-router/drawer';
-import { ServiceDrawer } from '../../../App';
+import { ServiceDrawer } from '../../components/ServiceDrawer';
 
 export default function DrawerLayout() {
   return <Drawer

diff --git a/mobile/src/app/locations.tsx b/mobile/src/app/locations.tsx
@@ -1,2 +1,2 @@
-import { ServiceLocationsScreen } from '../../App';
+import { ServiceLocationsScreen } from '../components/ServiceScreens';
 export default ServiceLocationsScreen;

diff --git a/mobile/src/app/(drawer)/(tabs)/account.tsx b/mobile/src/app/(drawer)/(tabs)/account.tsx
@@ -1,2 +1,2 @@
-import { AccountScreen } from '../../../../App';
+import { AccountScreen } from '../../../components/AccountScreens';
 export default AccountScreen;

diff --git a/mobile/src/app/service/[key].tsx b/mobile/src/app/service/[key].tsx
@@ -1,2 +1,2 @@
-import { ServiceScreen } from '../../../App';
+import { ServiceScreen } from '../../components/ServiceScreens';
 export default ServiceScreen;
